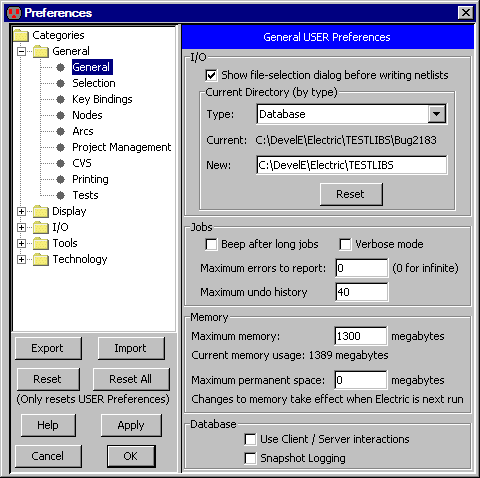
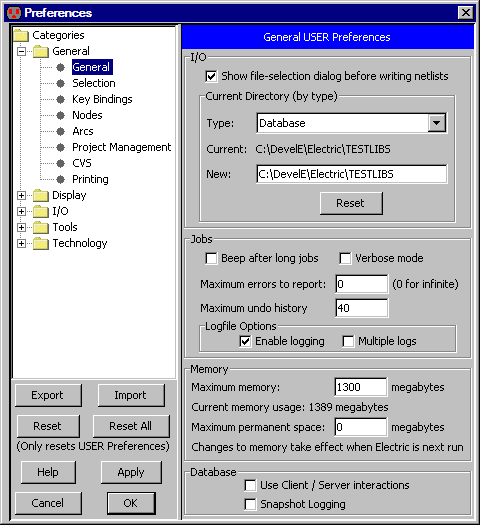
Manual cleanup
git-svn-id: https://svn.java.net/svn/electric~svn/trunk@10833 b64ed6c1-75a8-e629-b1da-d0dae74a743a

Changed region(s): [[0.0, 0.0, 1.0, 0.9958], [0.4375, 0.2343, 0.5, 0.2929], [0.4062, 0.3222, 0.4688, 0.3515]]

diff --git a/srcj/com/sun/electric/tool/user/help/helphtml/chap09-01.html b/srcj/com/sun/electric/tool/user/help/helphtml/chap09-01.html
@@ -58,6 +58,11 @@ By default, there is no limit to the number of errors.
 <P>
 For more information about "Maximum undo history", see <A HREF="chap06-07.html#chap06-07">Section 6-7</A>.
 <P>
+The "Logging Options" section controls Electric log files.
+By default, log files are produced during the session, but this can be disabled by unchecking "Enable logging."
+By default, only one log file is created which is overwritten in subsequent Electric sessions.
+Checking "Multiple logs" causes each log file to have a unique name so that multiple files are saved.
+<P>
 For more information about the "Memory" section, see <A HREF="chap01-03.html#chap01-03">Section 1-3</A>.
 <P>
 The "Database" section controls aspects of the Electric database that do not affect most users.
